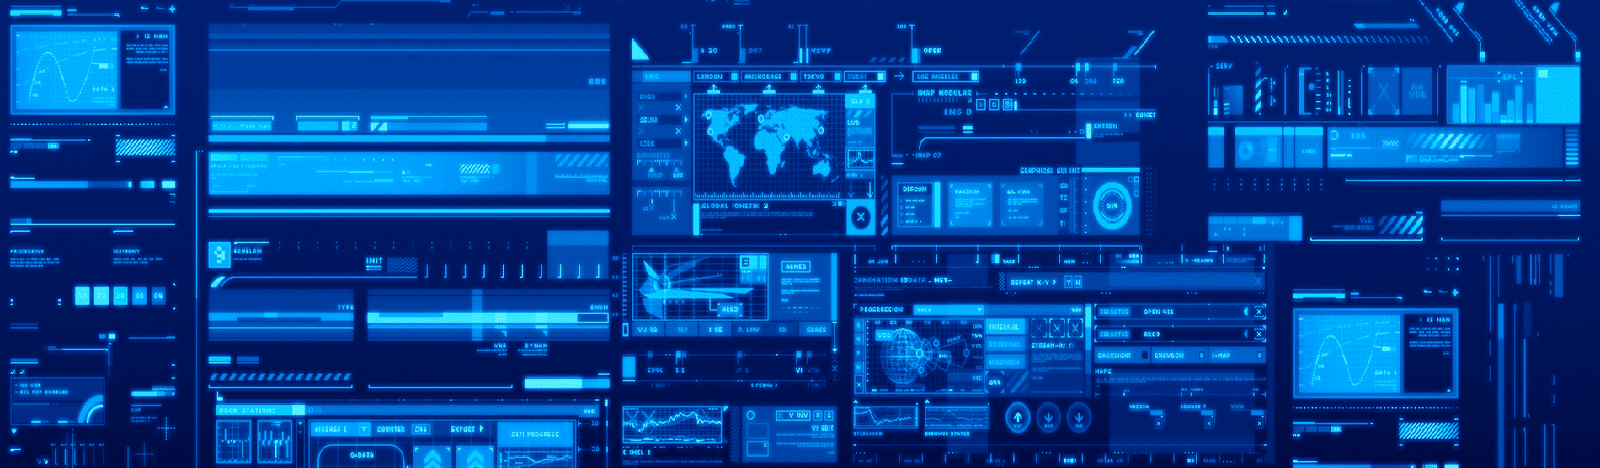
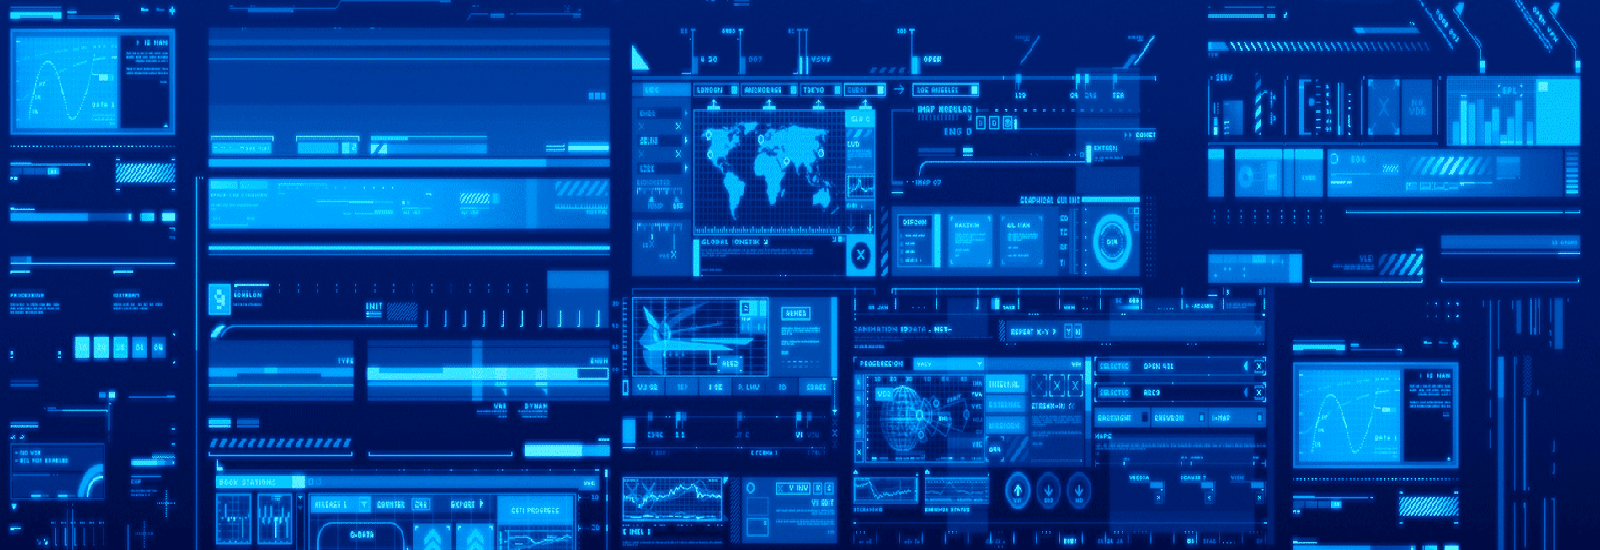
made changes to itservice html and css for typing text

diff --git a/itservice.html b/itservice.html
@@ -76,12 +76,14 @@ if (navigator.userAgent.match(/IEMobile\/10\.0/)) {
 				<div class="it-logo">
 			<img src="images/Tick.png"> <span>nri Prime Solutions</span>
 			</div>
-					<h2 class="type-js headline"><span class="text-js">Keep IT simple,  Keep IT Rolling...</span></h2>
+			        <h2><span class="txt-rotate"
+                    data-period="2000"
+                    data-rotate='[ "Keep IT simple,  Keep IT Rolling..." ]'></span></h2>
 					<div class="it_desc">
 					<p>IT Runs Modern organizations  and we support IT for  organizations to conduct their Business the way they want to.
 				</p>
 				</div>
-				<div class="it_desc">
+				<div class="it_desc it_descs">
 				<P>We keep the perspective of the IT simplified,  Be it application Building Application Support or Application re engineering.</P>
 				</div>
 				</div>
@@ -417,6 +419,64 @@ if (navigator.userAgent.match(/IEMobile\/10\.0/)) {
   interval: 3000,
   pause: false
 })
+	</script>
+	<script>
+	var TxtRotate = function(el, toRotate, period) {
+  this.toRotate = toRotate;
+  this.el = el;
+  this.loopNum = 0;
+  this.period = parseInt(period, 10) || 2000;
+  this.txt = '';
+  this.tick();
+  this.isDeleting = false;
+};
+
+TxtRotate.prototype.tick = function() {
+  var i = this.loopNum % this.toRotate.length;
+  var fullTxt = this.toRotate[i];
+
+  if (this.isDeleting) {
+    this.txt = fullTxt.substring(0, this.txt.length - 1);
+  } else {
+    this.txt = fullTxt.substring(0, this.txt.length + 1);
+  }
+
+  this.el.innerHTML = '<span class="wrap">'+this.txt+'</span>';
+
+  var that = this;
+  var delta = 300 - Math.random() * 100;
+
+  if (this.isDeleting) { delta /= 2; }
+
+  if (!this.isDeleting && this.txt === fullTxt) {
+    delta = this.period;
+    this.isDeleting = true;
+  } else if (this.isDeleting && this.txt === '') {
+    this.isDeleting = false;
+    this.loopNum++;
+    delta = 500;
+  }
+
+  setTimeout(function() {
+    that.tick();
+  }, delta);
+};
+
+window.onload = function() {
+  var elements = document.getElementsByClassName('txt-rotate');
+  for (var i=0; i<elements.length; i++) {
+    var toRotate = elements[i].getAttribute('data-rotate');
+    var period = elements[i].getAttribute('data-period');
+    if (toRotate) {
+      new TxtRotate(elements[i], JSON.parse(toRotate), period);
+    }
+  }
+  // INJECT CSS
+  var css = document.createElement("style");
+  css.type = "text/css";
+  css.innerHTML = ".txt-rotate > ";
+  document.body.appendChild(css);
+};
 	</script>
 </body>
 </html>

diff --git a/css/itcss.css b/css/itcss.css
@@ -35,7 +35,7 @@
 .menu_workarea{    
     position: relative;
     width: 100%;
-    height: 468px;
+    height:100%;
     float: left;
 }
 .slider_video{ position:relative; float:left; width:100%; }
@@ -87,7 +87,7 @@ text-shadow: 0px 0px 1px rgba(0, 0, 0, 0.9);text-align: center;
     font-weight: normal;
     width: 100%;
     float: left;
-    margin: 30px 0px;min-height: 45px;
+    margin: 20px 0px;min-height: 45px;
 }
 
 /* Header Style */
@@ -694,12 +694,13 @@ text-shadow: 0px 0px 1px rgba(0, 0, 0, 0.8);}
 .it_desc {
 	margin-bottom:0px;
 }
+.it_descs {
+	margin-bottom:40px;
+}
 .bounce_button {
 	bottom:10px;
 }
-.menu_workarea { 
-    height:360px;
-}
+
 }
 @media screen and (max-width: 991px){
 .info h2 {
@@ -707,7 +708,7 @@ text-shadow: 0px 0px 1px rgba(0, 0, 0, 0.8);}
     margin: 0px 0px;
 }
 .it_desc p {
-	padding: 0px 16%;
+	padding: 0px 0%;
 	font-size:12px;
 }
 .mad-select ul.mad-select-drop li {
@@ -725,9 +726,6 @@ text-shadow: 0px 0px 1px rgba(0, 0, 0, 0.8);}
     width: 100% !important;
 	margin-left: 0px !important;
 }
-.menu_workarea {
-    height: 280px;
-}
 }
 @media screen and (max-width: 920px){
 	.it-logo span {
@@ -742,9 +740,11 @@ text-shadow: 0px 0px 1px rgba(0, 0, 0, 0.8);}
         width: 80px;
 
     }
-	.info h2 {
-		font-size: 16px;
+	.info h2 {		
 		min-height:23px;
+	}
+	.txt-rotate {
+		font-size: 20px !important;
 	}
 	.co-date {
 		font-size: 30px;
@@ -764,7 +764,11 @@ text-shadow: 0px 0px 1px rgba(0, 0, 0, 0.8);}
 @media screen and (max-width: 515px){ 
 	.info h2 { 
 	    margin-top: 0px;
-		font-size:12px;
+	    margin-top: 0px;
+	}
+	.txt-rotate {
+		font-size: 16px !important;
+		margin-bottom:-25px;
 	}
 	.it-logo img {
         width: 50px;
@@ -959,4 +963,14 @@ text-shadow: 0px 0px 1px rgba(0, 0, 0, 0.8);}
     -moz-animation-delay: 0;
     -moz-animation-play-state: running;
     -moz-animation-fill-mode: forwards;
+}
+
+.txt-rotate {
+    text-align: center;
+    font-size: 35px;
+    font-weight: normal;
+    width: 100%;
+    float: left;
+    min-height: 45px;
+    color: #fff;
 }
